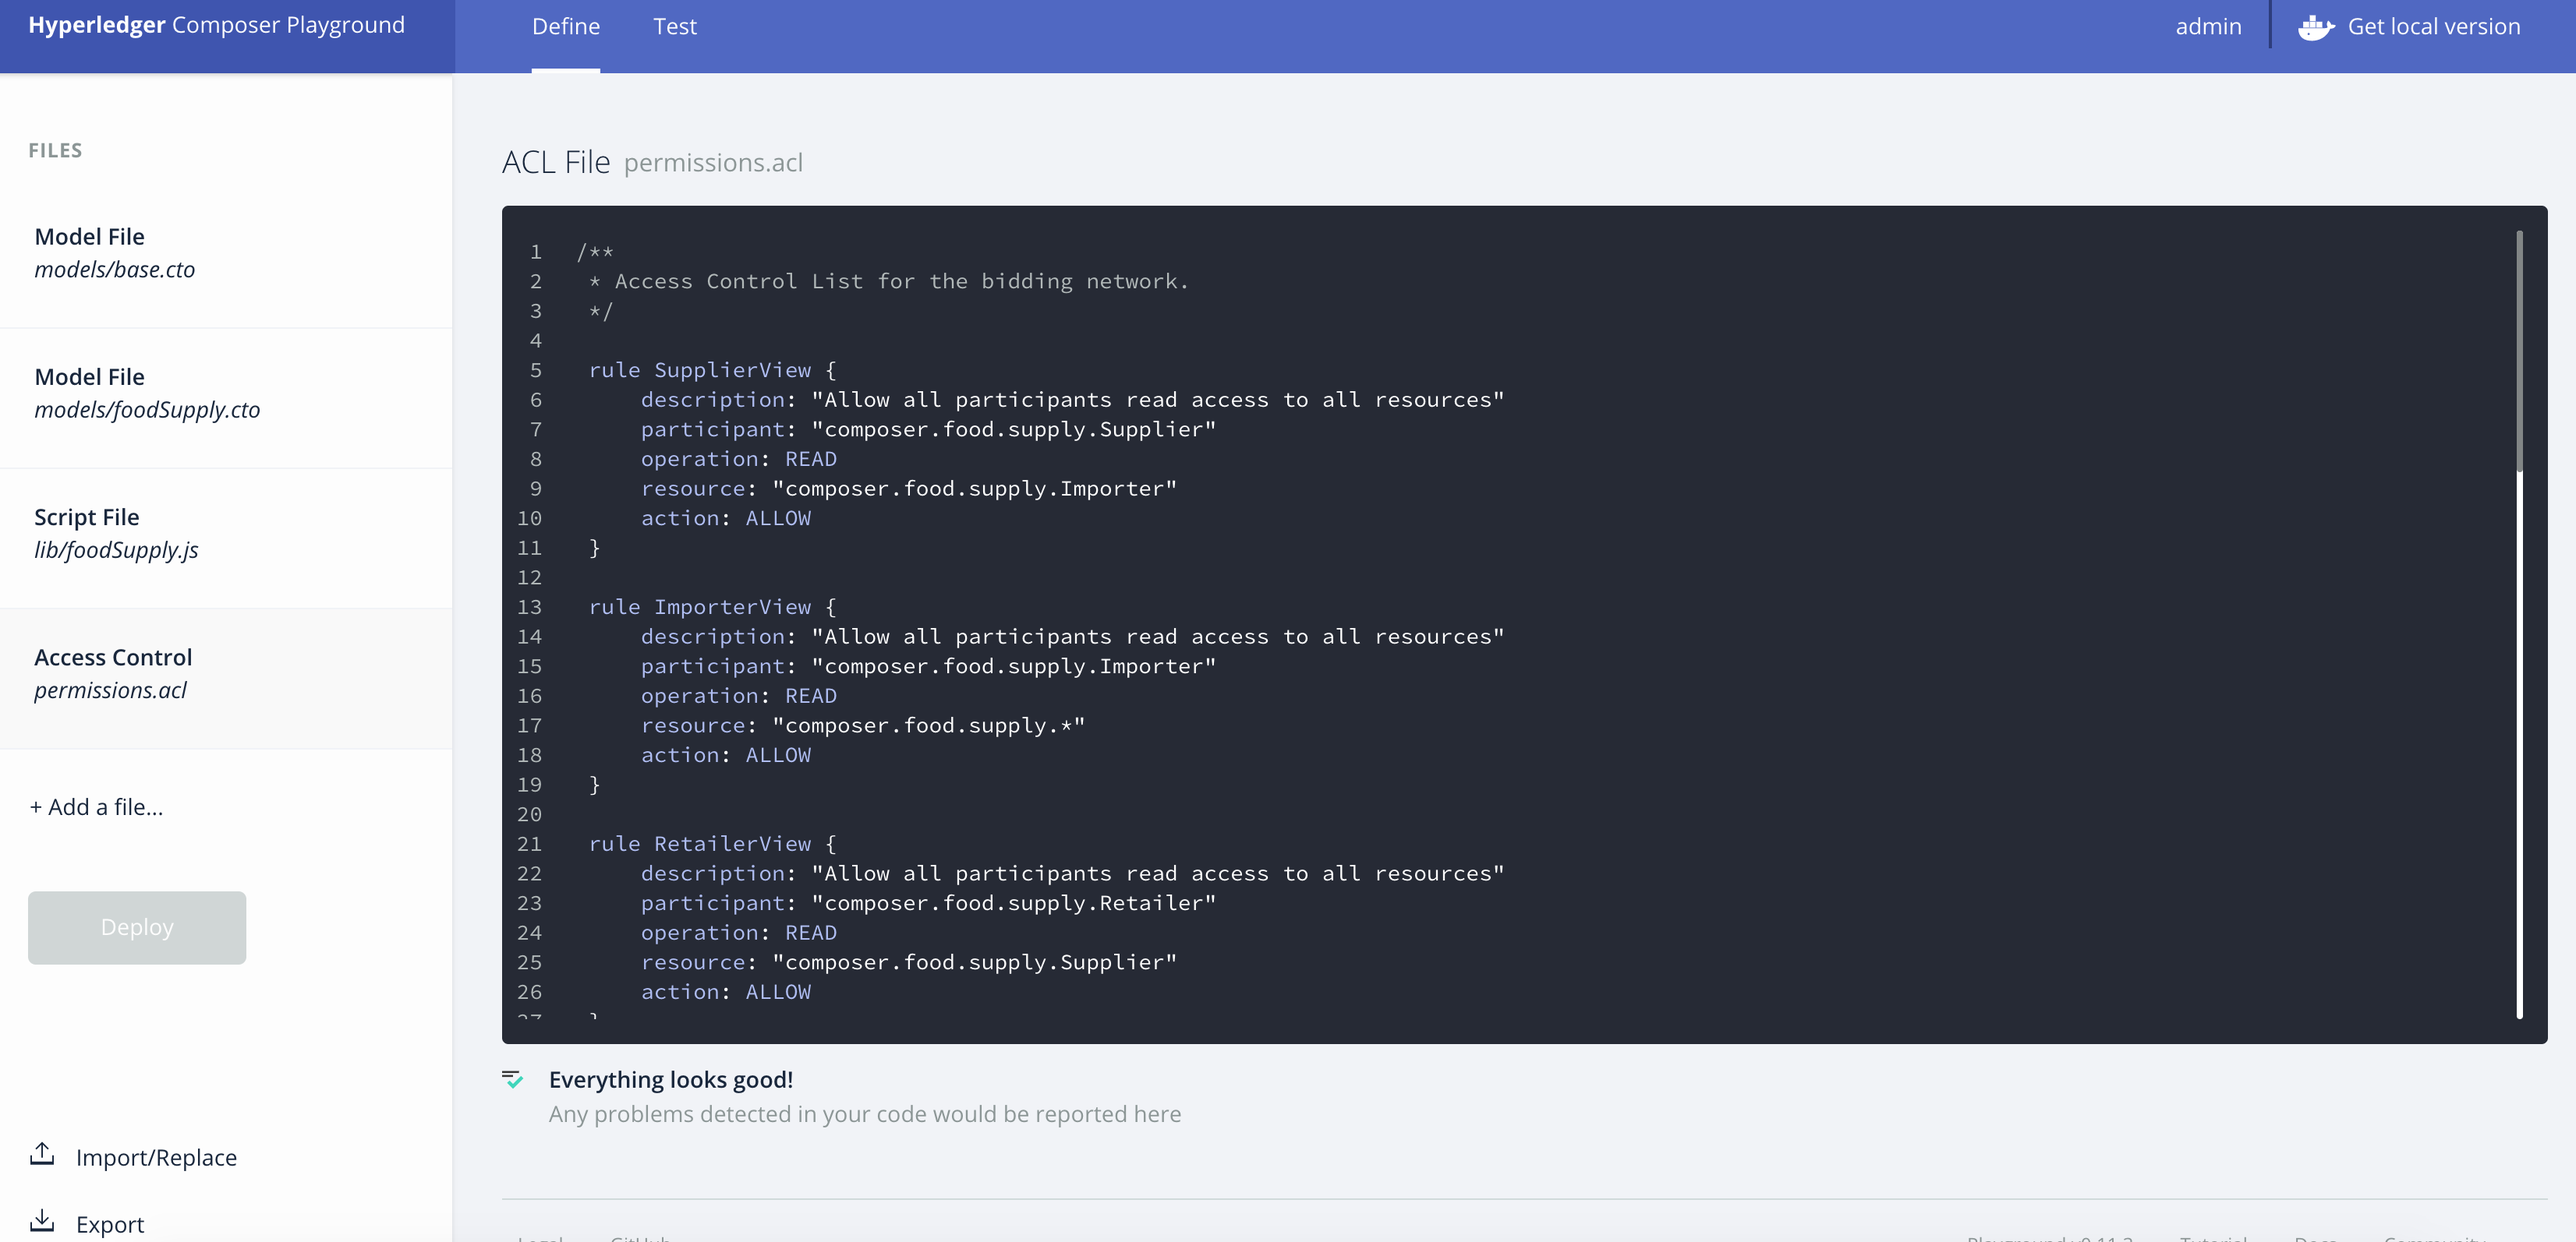
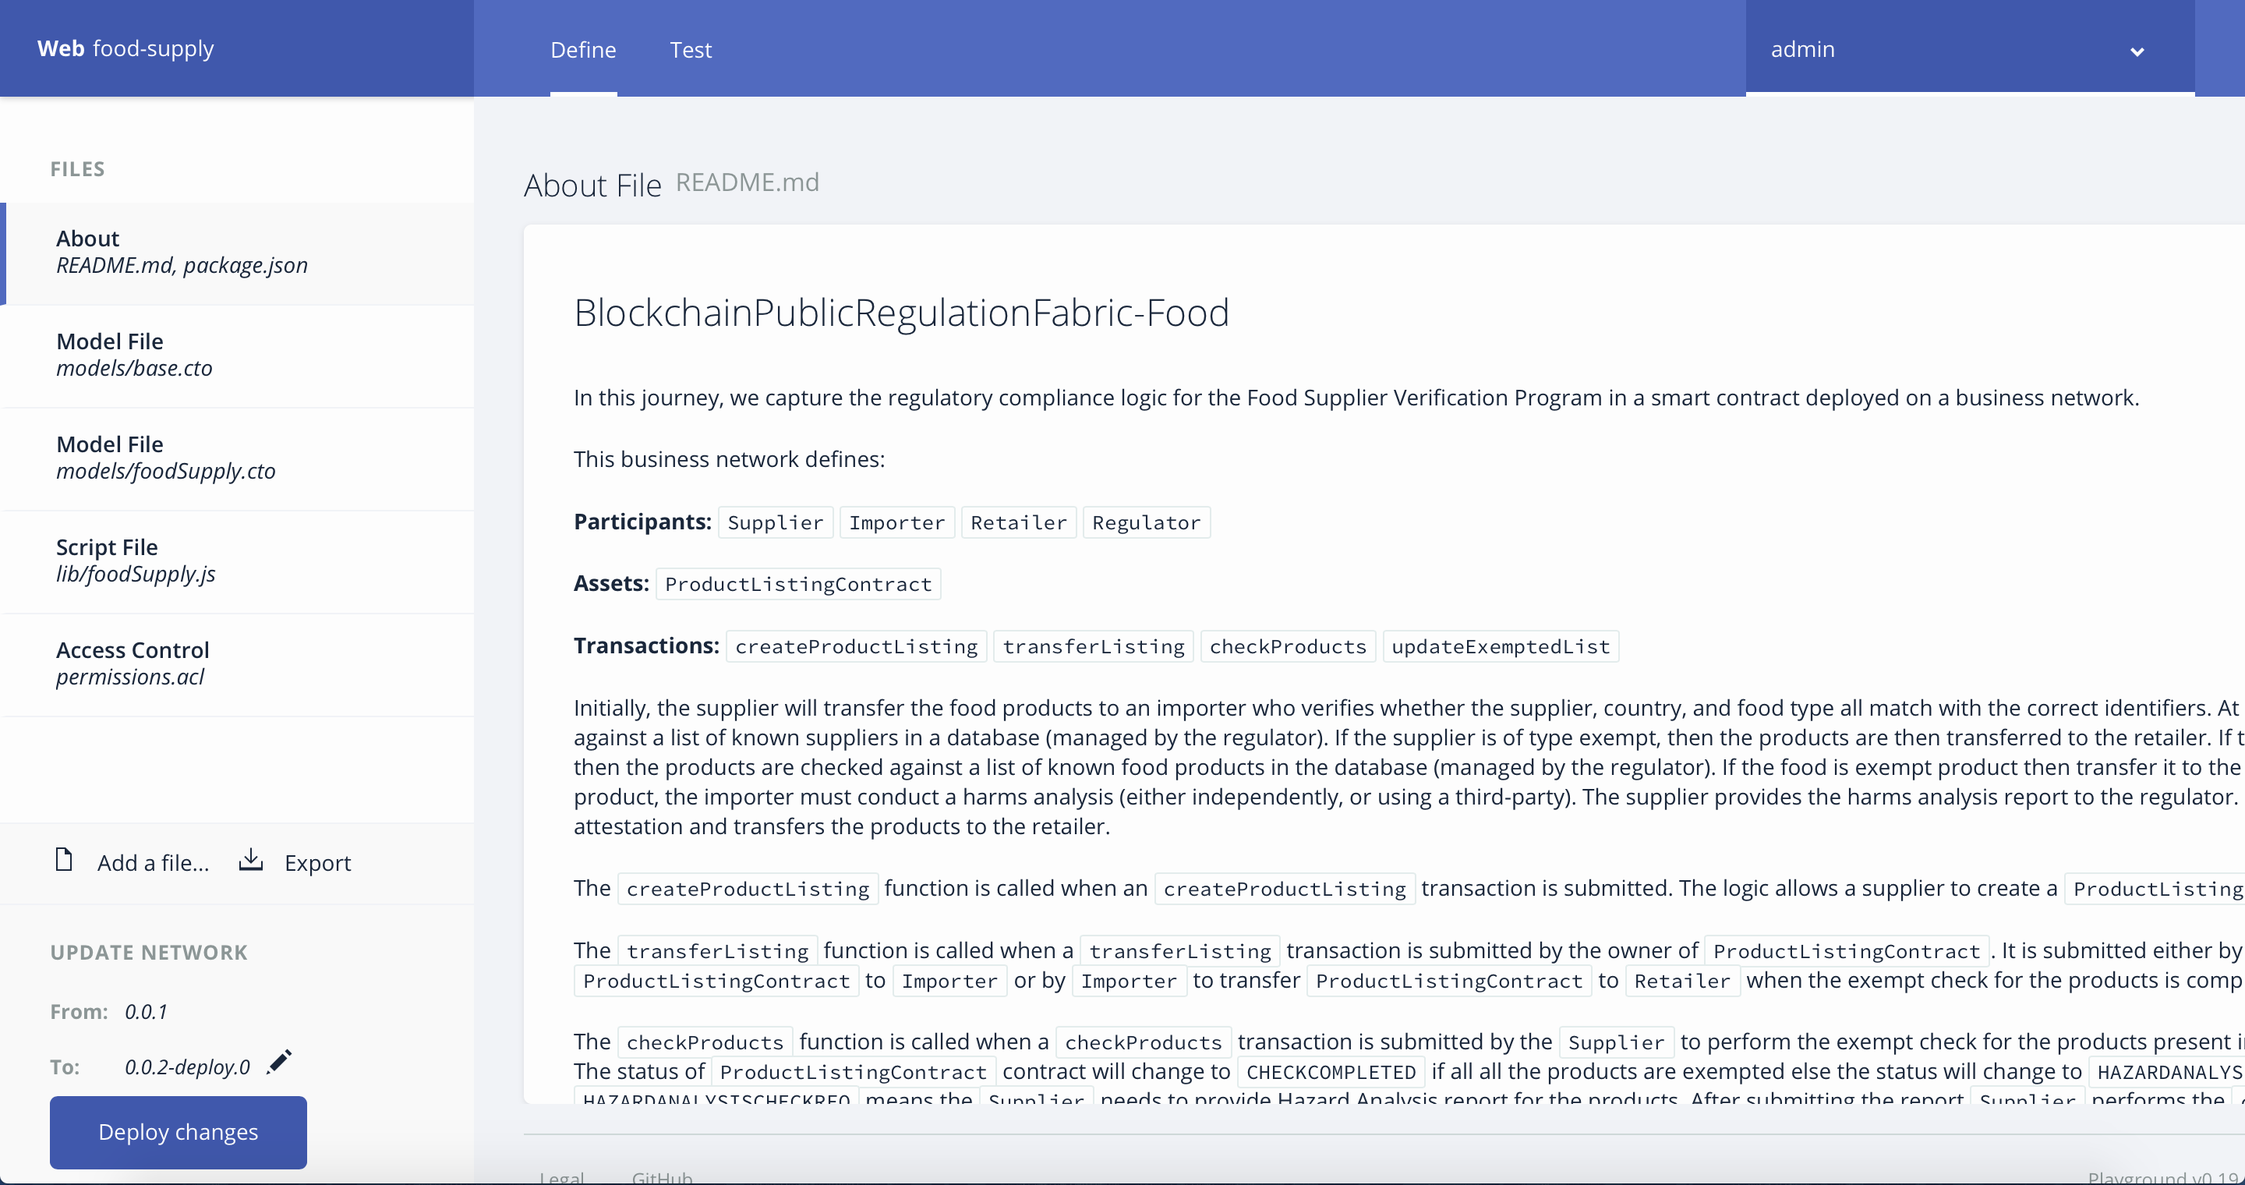
Updated images & README

diff --git a/README.md b/README.md
@@ -98,19 +98,25 @@ You should see the following output :
 ```
 
 ## 2. Deploy the Business Network Archive using Composer Playground
-Open [Composer Playground](http://composer-playground.mybluemix.net/), by default the Basic Sample Network is imported.
-If you have previously used Playground, be sure to clear your browser local storage by running `localStorage.clear()` in your browser Console.
+Use Ctrl-click (or the equivalent action for your system) to open the <a href="https://ibm.box.com/v/demo-workspace" target=download>food-supply.bna</a> file in a separate tab. Click **Download** to download this file to your own device.
 
-Now import the `food-supply.bna` file and click on deploy button.
-<p align="center">
-  <img width="100" height="50" src="images/importbtn.png">
-</p>
+Open [Composer Playground](http://composer-playground.mybluemix.net/). If you have previously used Playground, be sure to clear your browser local storage by running `localStorage.clear()` in your browser Console.
+
+Next, click the `Deploy a new business network` button
+
+![Deploy new network 1](images/deploy-new-network-1.png)
+
+and drop the `food-supply.bna` file downloaded above in the `Drop here to upload or browse` area. 
+
+![Deploy new network 2](images/deploy-new-network-2.png)
+
+Finally, click Deploy to deploy the BNA.
 
 >You can also setup [Composer Playground locally](https://hyperledger.github.io/composer/installing/using-playground-locally.html).
 
-You will see the following:
+Once imported, click `Connect now` on the admin card. You should see the following:
 <p align="center">
-  <img width="400" height="200" src="images/composerplayground.png">
+  <img width="500" src="images/composerplayground.png">
 </p>
 
 To test your Business Network Definition, first click on the **Test** tab:
@@ -160,19 +166,14 @@ Please follow the instructions as shown in the images below:
 
 ![Admin Tab](images/admintab.png)
 
-Click on  `Issue New Id` button to create new Ids.
+Click on  `Issue New ID` button to create new IDs.
 ![Generate New Id](images/generateNewId.png)
 
-Click on `Add to my Wallet` link to add the newly generated Id to the `Wallet`.
-![Add to Wallet](images/addtowallet.png)
-
-![Ids to Wallet](images/idstowallet.png)
-
-Select the `Supplier id` from `Wallet tab` tab. Now click on the `test tab` to perform `createProductListing` and `transferListing` transactions.
+Repeat the above step to also create IDs for the importer, regulator and retailer. Once you completed the creation of the four IDs, select the `Supplier id` from the list and click `Use now`. 
 
 ![Select ID](images/selectid.png)
 
-Now click on `Submit Transaction` button and select `createProductListing` transaction from the dropdown, to create a product listing for the list of products. `products` array element contains information about the `productid` and `quantity` separated by `,`.
+Next, click on the `test tab` to perform `createProductListing` and `transferListing` transactions. Click the `Submit Transaction` button and select the `createProductListing` transaction from the dropdown to create a product listing for the list of products. The `products` array element contains information about the `productid` and `quantity` separated by `,`.
 
 ```
 {
@@ -186,8 +187,8 @@ After executing the transaction successfully, `productListing` will be created i
 
 ![Product Listing](images/productListing.png)
 
-Similarly, submit a `transferListing` transaction to transfer the productListing to `Importer`.
-> `ProductListingContractID`is the id of the ProductListingContract copied from the `ProductListingContract` registry.
+Similarly, submit a `transferListing` transaction to transfer the productListing to the `Importer`.
+> `ProductListingContractID` is the id of the ProductListingContract copied from the `ProductListingContract` registry.
 
 ```
 {
@@ -198,7 +199,7 @@ Similarly, submit a `transferListing` transaction to transfer the productListing
 }
 ```
 
-`importerA` will be the owner of `ProductListingContract` and the status will be `EXEMPTCHECKREQ`. Also, productListing will be removed from `Supplier` view. Now select the `importer` id from the `Wallet tab` and submit `checkProducts` transaction to perform the exempt check for the products.
+`importerA` will be the owner of `ProductListingContract` and the status will be `EXEMPTCHECKREQ`. Also, productListing will be removed from the `Supplier` view. Now select the `importer` id from the `ID Registry` and submit a `checkProducts` transaction to perform the exempt check for the products.
 
 ```
 {
@@ -208,7 +209,7 @@ Similarly, submit a `transferListing` transaction to transfer the productListing
 }
 ```
 
-Successful execution of transaction will change the status of productListing to `CHECKCOMPLETED`. Now perform `transferListing` transaction to transfer the products to retailer.
+A successful execution of the transaction will change the status of productListing to `CHECKCOMPLETED`. Now perform a `transferListing` transaction to transfer the products to retailer.
 
 ```
 {
@@ -219,7 +220,7 @@ Successful execution of transaction will change the status of productListing to 
 }
 ```
 
-The transaction will the change the owner of `ProductListingContract` and update the list of products in `Retailer` registry. Select the `Retailer` id from the `Wallet tab` and view the updated registries.
+The transaction will the change the owner of `ProductListingContract` and update the list of products in `Retailer` registry. Select the `Retailer` id from the `ID Registry` and view the updated registries.
 
 ![Product Listing](images/retailerPL.png)
 
